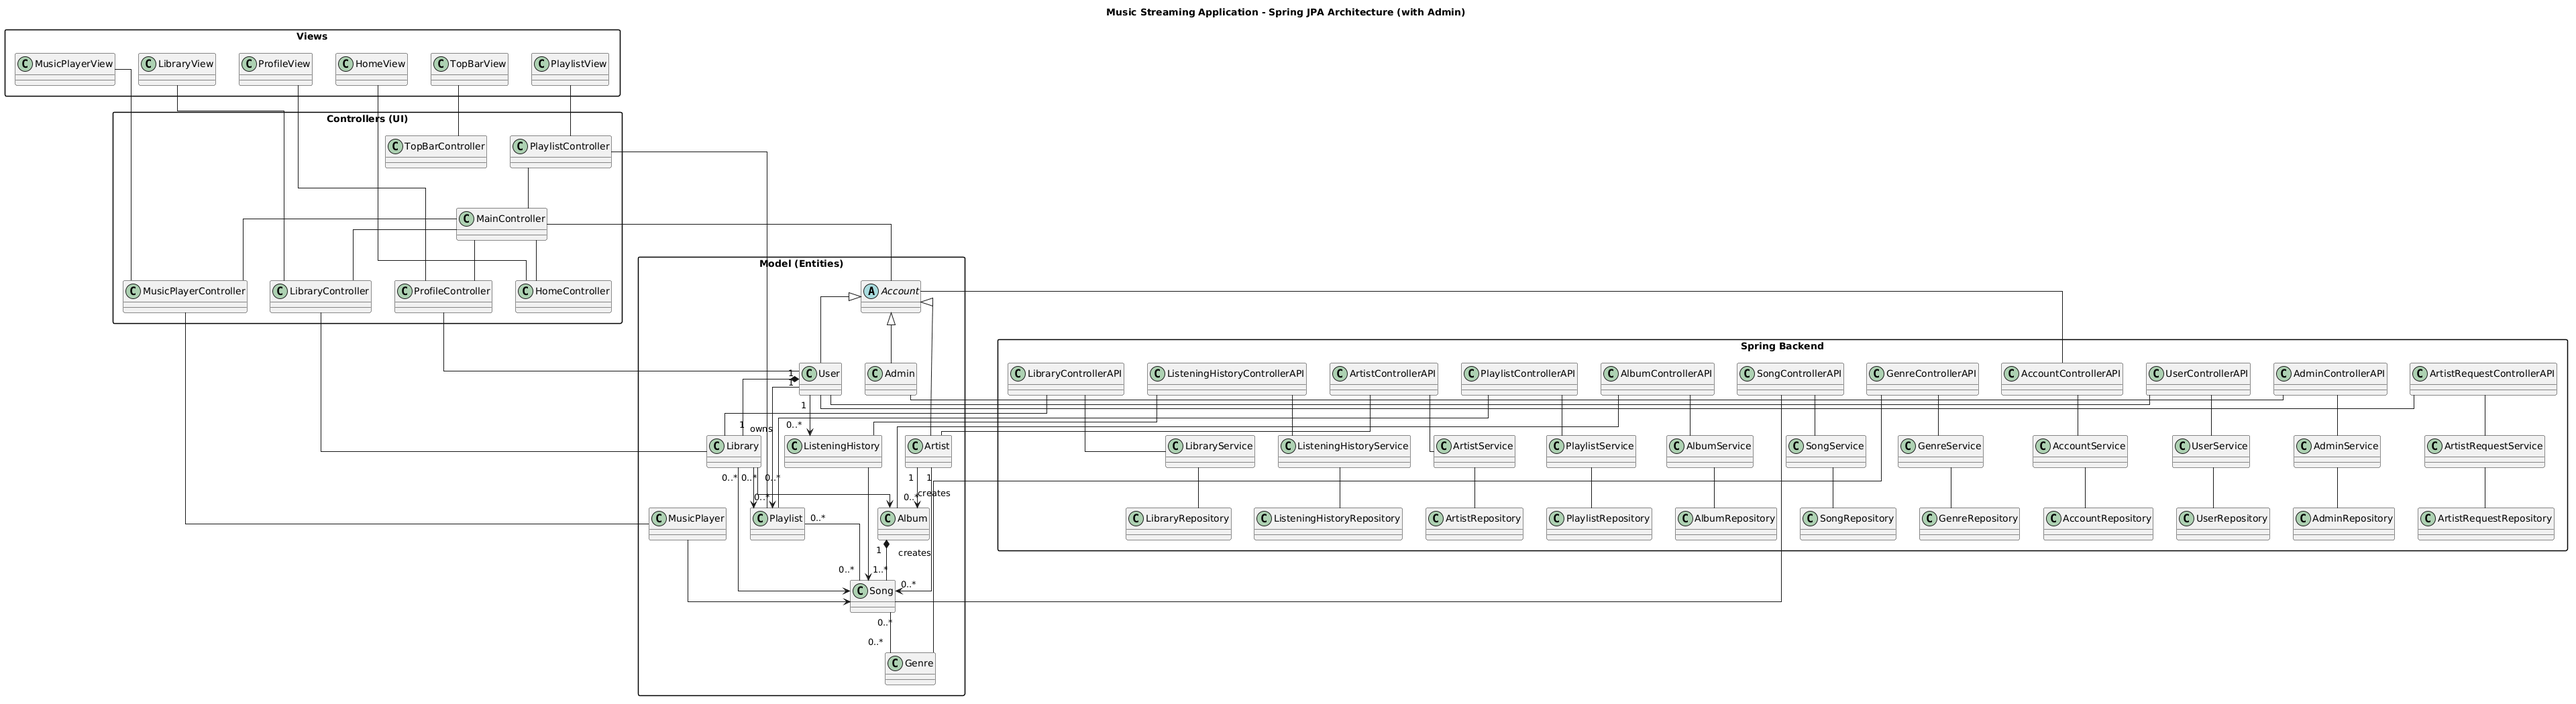
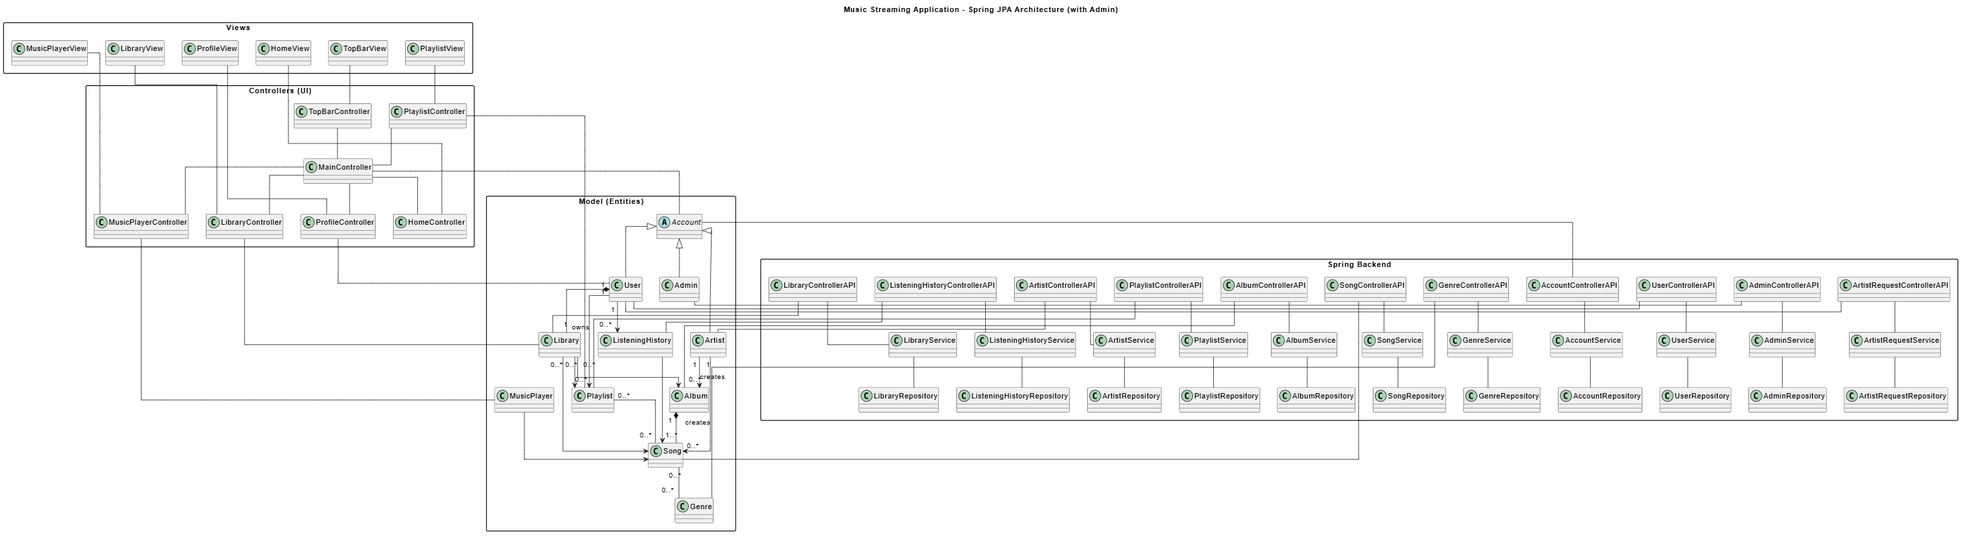
SequenceDiagram10
Έκανα λάθος πριν με την αρίθμηση των διαγραμμάτων, τώρα έκανα το σωστό και διόρθωσα ένα λαθάκι στο domain model και τα use cases

diff --git a/Paradoteo_2/Use-case-v0.2.md b/Paradoteo_2/Use-case-v0.2.md
@@ -175,7 +175,7 @@ rectangle "Notifications Loop" {
 6.α.3 Επιστροφη στη Βασική Ροή στο βημα 7
 
 # Βασική Ροή "Remove Songs from System Recommendations"
-1. Ο Χρήστης το τραγούδι που δεν θέλει να εμφανίζεται στα προτεινόμενα
+1. Ο Χρήστης επιλέγει το τραγούδι που δεν θέλει να εμφανίζεται στα προτεινόμενα
 2. Το σύστημα εμφανίζει το μενού επιλογών για το τραγούδι
 3. Ο Χρήστης επιλέγει "Remove from Recommendations"
 4. Το σύστημα προσθέτει το τραγούδι στα ανεπιθύμητα για τον Χρήστη και ενημερώνει τη βάση δεδομένων για την αλλαγή

diff --git a/Paradoteo_2/Domain-Model-v0.4.md b/Paradoteo_2/Domain-Model-v0.4.md
@@ -100,6 +100,7 @@ PlaylistView -- PlaylistController
 PlaylistController -- MainController
 
 TopBarView -- TopBarController
+TopBarController -- MainController
 MainController -- Account
 
 ' =====================
